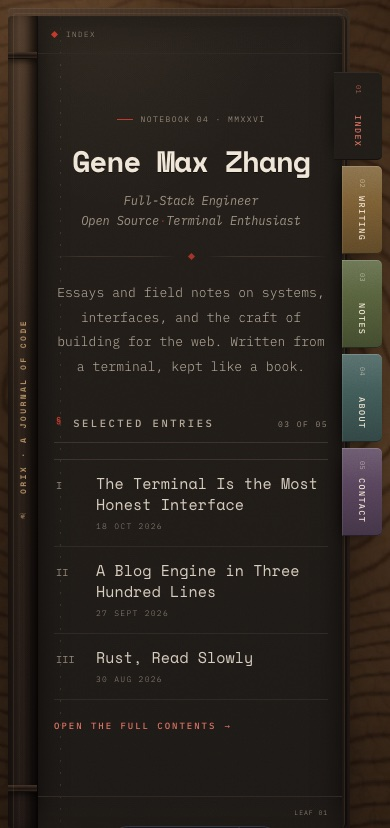
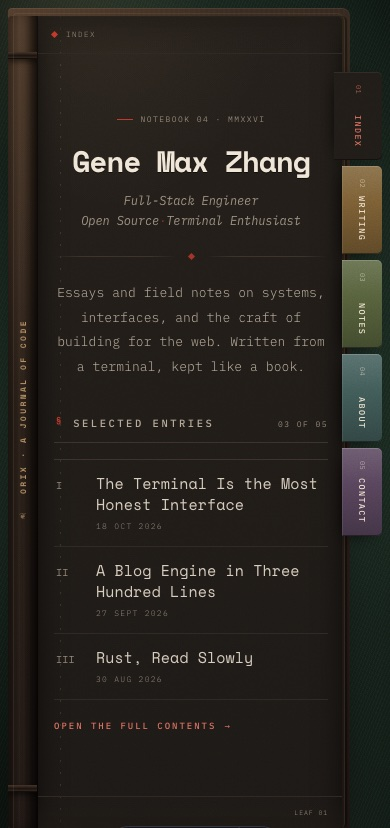
style: replace walnut desk with dark green baize
Remove the generated wood texture and rebuild the desk as a deep green baize surface using layered CSS gradients, a fine weave, lamp light, and a vignette. Refresh previews and README notes.

Changed region(s): [[0.0, 0.0, 1.0, 1.0], [0.8923, 0.4227, 0.9231, 0.4529]]

diff --git a/src/styles/global.css b/src/styles/global.css
@@ -67,7 +67,7 @@
 	color-scheme: dark;
 
 	/* the desk */
-	--desk: #2a1a10;
+	--desk: #101812;
 	--cover: #241b15;
 	--cover-hi: #3d2e22;
 
@@ -130,18 +130,12 @@ body {
 	overflow: hidden;
 	background-color: var(--desk);
 	background-image:
-		radial-gradient(62% 50% at 16% -6%, rgba(255, 205, 150, 0.12), transparent 68%),
-		radial-gradient(120% 92% at 50% 45%, transparent 32%, rgba(6, 3, 2, 0.62) 100%),
-		url("/textures/wood-desk.webp");
-	background-size:
-		auto,
-		auto,
-		cover;
-	background-position:
-		center,
-		center,
-		50% 48%;
-	background-repeat: no-repeat;
+		radial-gradient(60% 50% at 18% -8%, rgba(255, 204, 144, 0.13), transparent 64%),
+		radial-gradient(58% 48% at 85% 106%, rgba(125, 166, 141, 0.11), transparent 70%),
+		radial-gradient(120% 100% at 50% 46%, transparent 30%, rgba(0, 0, 0, 0.55) 100%),
+		repeating-linear-gradient(112deg, rgba(242, 248, 236, 0.03) 0 1px, transparent 1px 3px),
+		repeating-linear-gradient(24deg, rgba(0, 0, 0, 0.065) 0 1px, transparent 1px 5px),
+		radial-gradient(86% 68% at 48% 45%, #32483b 0%, #203328 54%, #101a14 100%);
 	color: var(--ink);
 	font-family: var(--font-mono);
 	font-size: 15px;

diff --git a/README.md b/README.md
@@ -1,8 +1,8 @@
 # Orix Journal
 
-A small personal blog for Gene Max Zhang, set like a book on a dark walnut
-desk. Warm paper, a blind-tooled cover, a stitched spine, and five index tabs on
-the right edge of the page. Built with Astro and plain CSS — no client-side
+A small personal blog for Gene Max Zhang, set like a book on a dark green
+baize desk. Warm paper, a blind-tooled cover, a stitched spine, and five index
+tabs on the right edge of the page. Built with Astro and plain CSS — no client-side
 framework, no theme switcher, no analytics.
 
 ## The idea
@@ -92,9 +92,8 @@ full essays.
   in `public/fonts/` (SIL Open Font License) and preloaded by the layout.
 - **Palette**: warm near-black cover, dark brown paper, muted bone ink, vermilion
   seal marks, and five low-saturation tab colors.
-- **Desk**: a generated end-grain walnut slab in
-  `public/textures/wood-desk.webp`, lit from the upper left and vignetted so the
-  book stays the focus.
+- **Desk**: deep green baize built from layered CSS gradients and a fine woven
+  grain, lit from the upper left and vignetted so the book stays the focus.
 - **Book details**: CSS gradients for the leather, an SVG noise grain for paper,
   stitched gutter, blind-tooled cover border, running head, folio, and index
   tabs.
